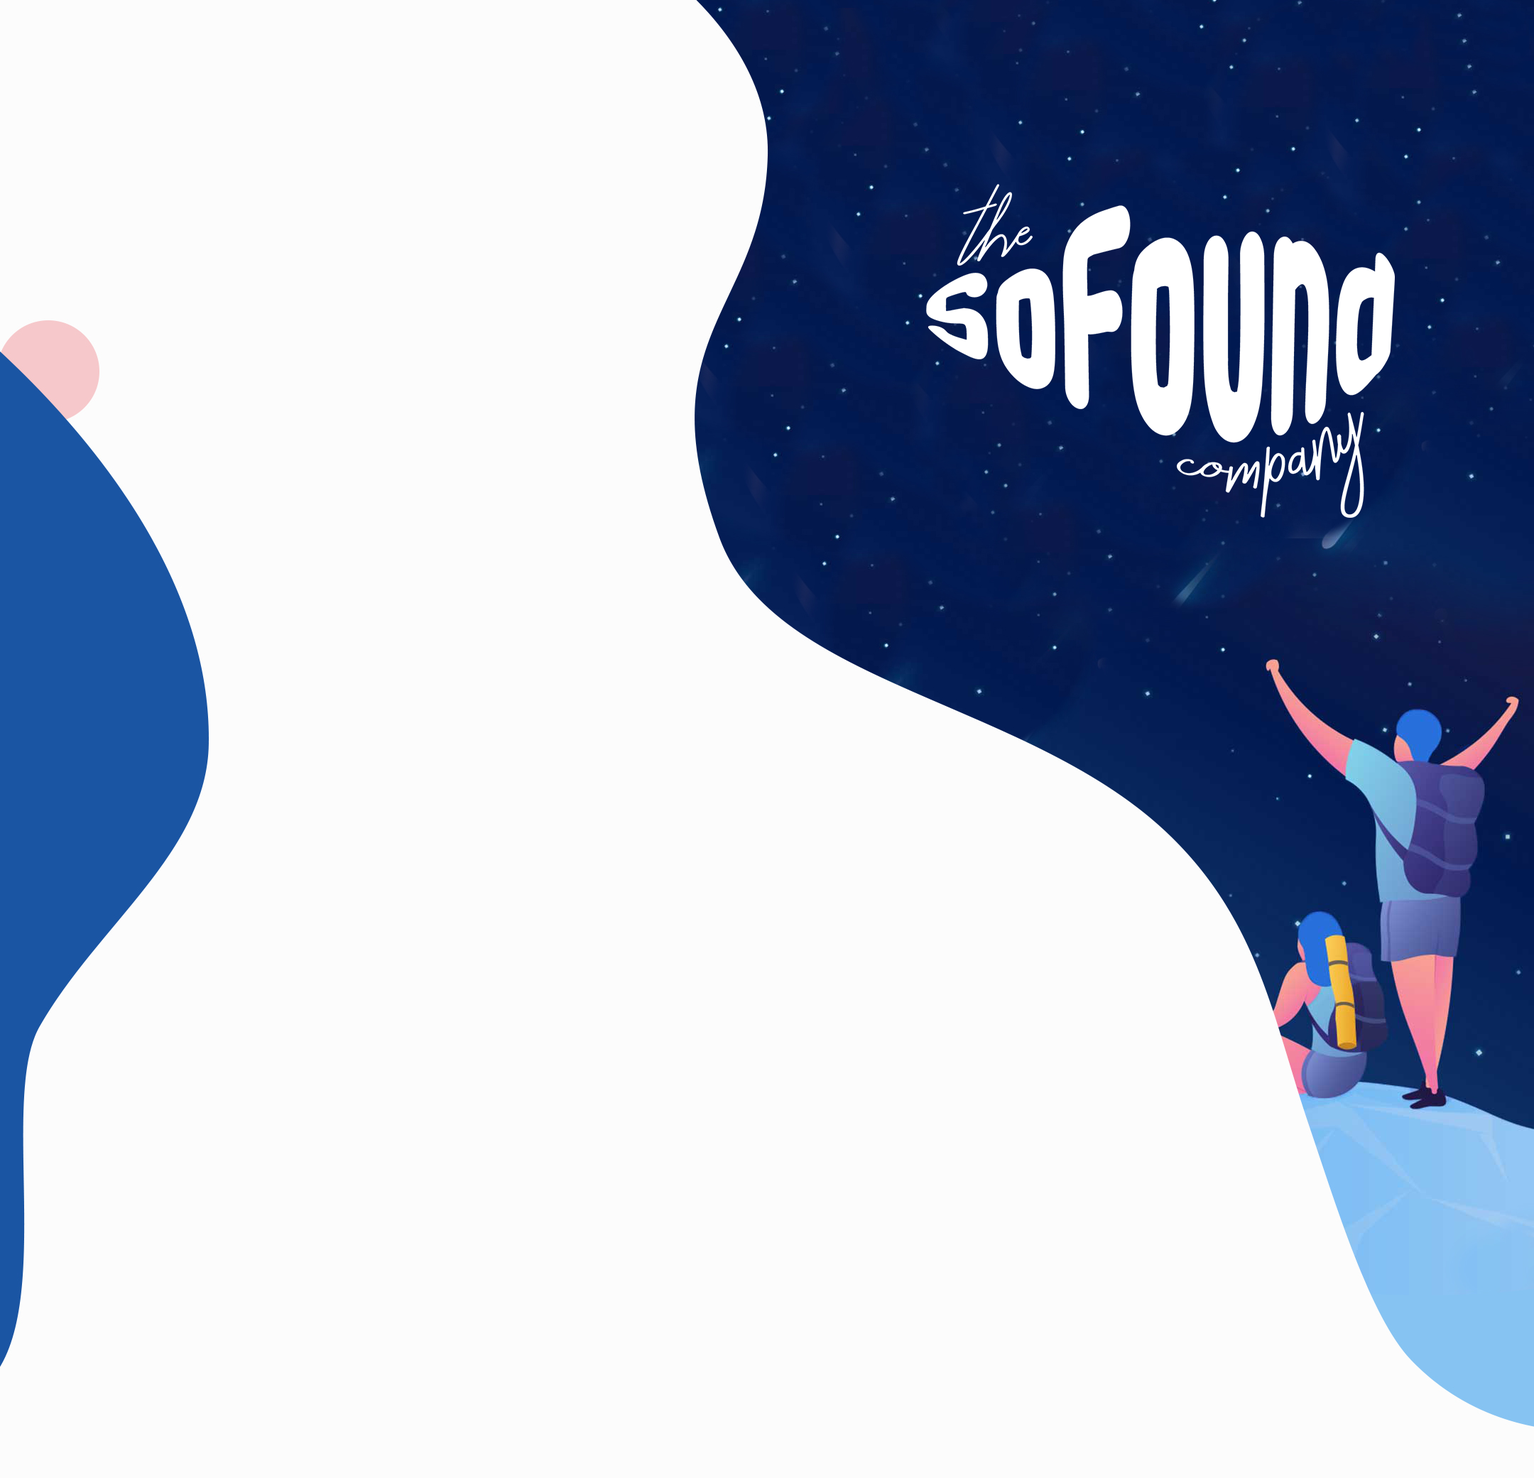
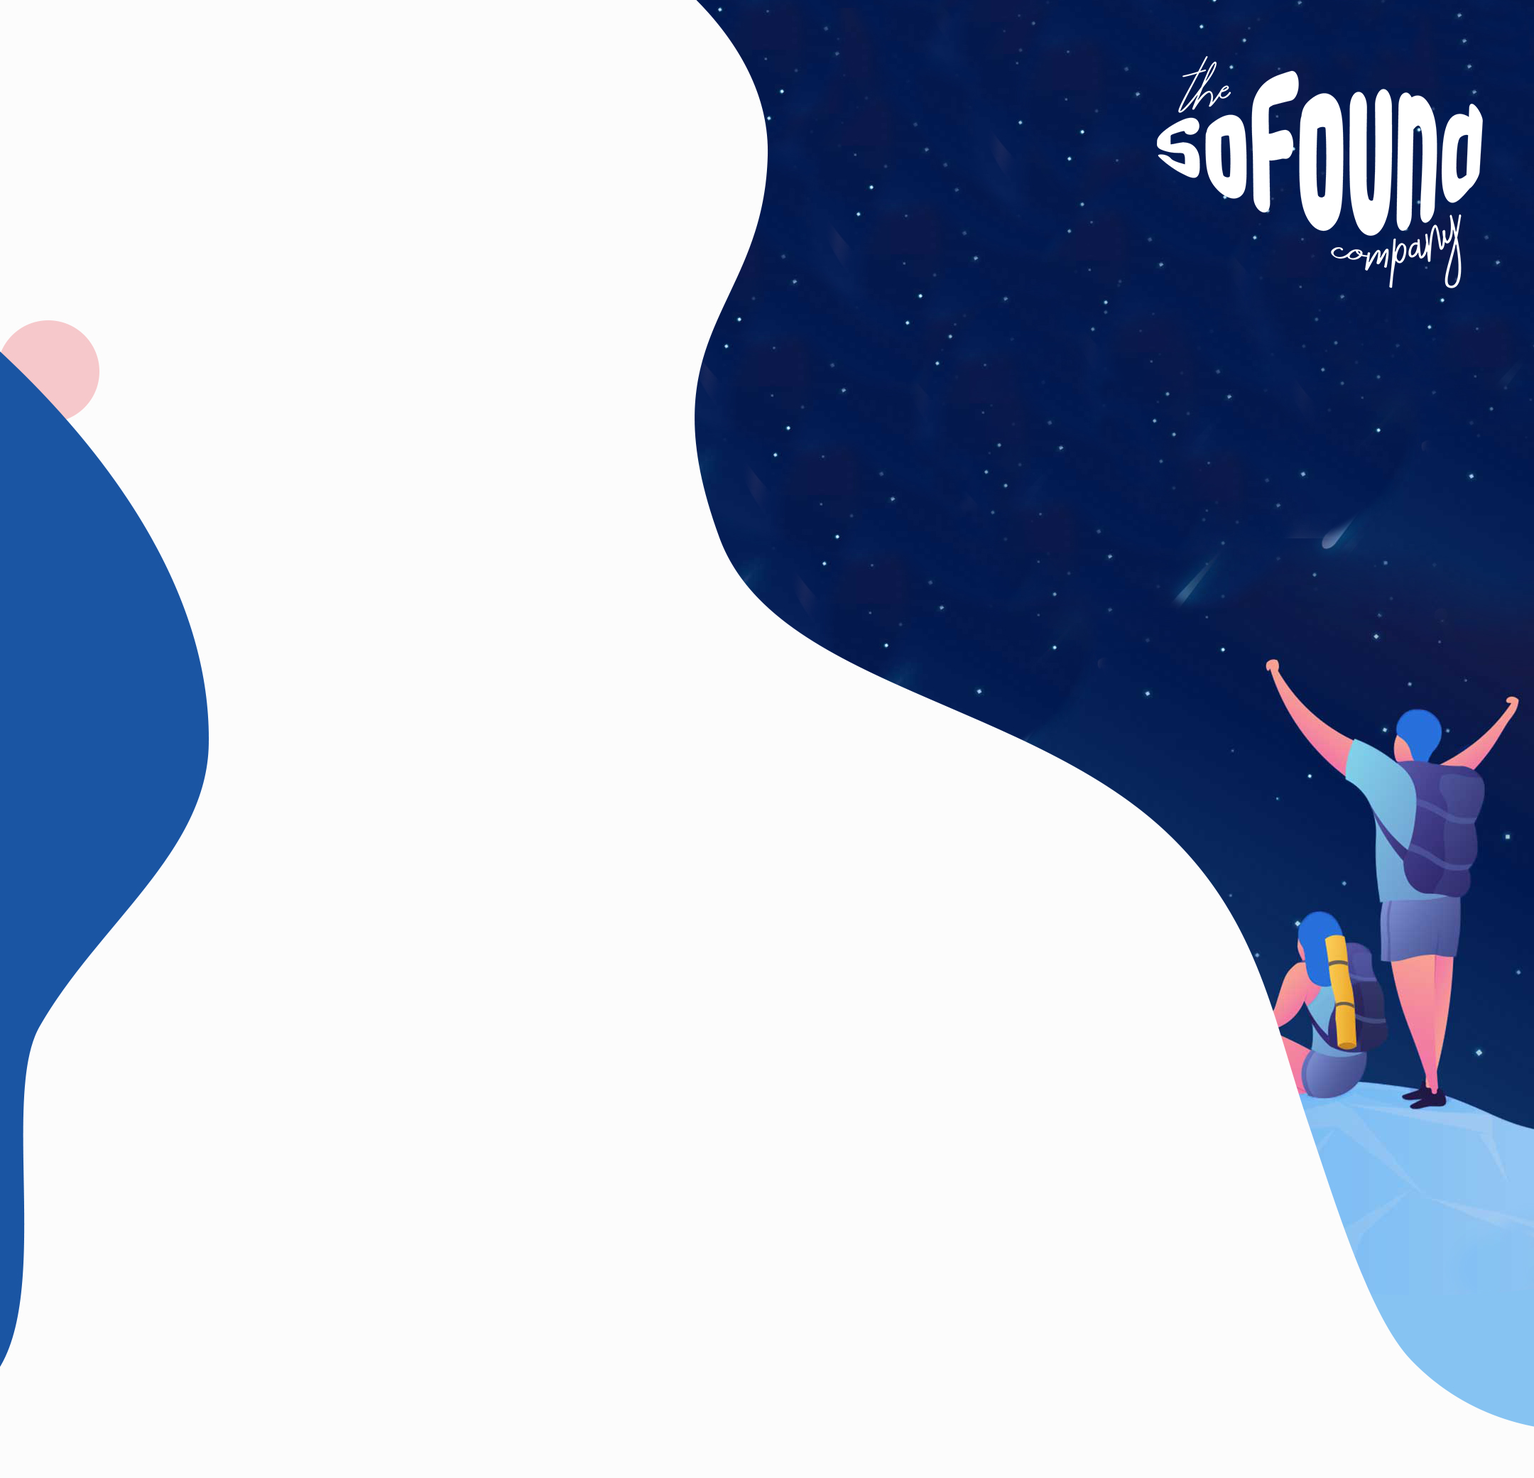
Finished home

Changed region(s): [[0.5894, 0.0312, 0.9926, 0.3436]]

diff --git a/index.html b/index.html
@@ -27,7 +27,7 @@
         <!-- Web -->
         <div class="row ">
           <div class="col-6 d-none d-sm-none d-md-block col-6 ">
-            <a href="index.html"><img src="assets/images/corner_web_logo.png" class="logo"  alt=""></a>
+            <a href="index.html"><img style="opacity:1;" src="assets/images/small_icon_3.png" class="logo"  alt=""></a>
 
           </div>
           <div  class="d-none d-sm-none d-md-block col-6">
@@ -171,7 +171,7 @@
             <p class="text-header-minor margin-top-header">To a new level</p>
           </div>
           <div class="row" >
-            <p class="text-header-paragraph margin-text-header-paragraph ">The SoFound Co is an experienced creative digital media company. We help grow the brand & business while you work on your craft. Contact us to learn how
+            <p class="text-header-paragraph margin-text-header-paragraph ">The SoFound Co is an experienced creative digital media company. We help grow the brand & business while you work on your craft. Contact us to learn how.
           </div>
           <div class="row">
             <a href="contact.html"> <button  class="style-button-blue" type="button" name="button">Contact Us</button></a>
@@ -181,9 +181,9 @@
     </header>
     <br>
    <!-- ............................................. (1) Our Services .............................................................................. -->
-    <div class="our-services-margin-top services-container-2" >
+    <div style="padding-bottom:4%; padding-top:4%;"class="our-services-margin-top services-container-2" >
     <section class="services-container" style="margin-top: %;">
-      <h1 style="color:white;"class="text-center text-title" >Our Services</h1>
+      <h1 style="opacity:0;"class="text-center text-title" ></h1>
       <div style="margin-top: -3%;" class="row text-center">
         <div class="services-margin-top col-lg-4 col-md-4 col-sm-6 col-xs-6 col-6">
           <a target="_blank" href="service-web.html"> <img class="image-services hvr-grow" style="padding:10px;" href="contact.html" src="assets/images/computer1.png" alt=""></a>
@@ -241,10 +241,10 @@
         <div class="col-lg-6 col-md-6  col-12">
           <div class="boxed row">
             <h2 class="text-title" >About Us</h2>
-            <p class="text-paragraph">The SoFound Co.  is a creative digital media company that specializes in improving brand & business practises through the implementation of art.  We have both launched and redesigned brands ranging in the clothing and car industries. We place a large emphasis in merging art and business, with growth in mind. Due to our wide array of skills and experience, we can help across many platforms, from web development, logo design, social media and print marketing, all while maintaining a congruent  brand strategy</p>
+            <p class="text-paragraph">The SoFound Company is a creative digital media company that specializes in improving brand & business practises through the implementation of art.  We have both launched and redesigned brands ranging in the clothing and car industries. We place a large emphasis in merging art and business, with growth in mind. Due to our wide array of skills and experience, we can help across many platforms, from web development, logo design, social media and print marketing, all while maintaining a congruent  brand strategy</p>
             <button  class="style-button-blue-aboutus" type="button" name="button">Learn More</button>
           </div>
-          <div  class="center row">
+          <div style="margin-top:5%; margin-left:25%;" class="center row">
             <div class="circle">
               <p style="margin:24%;" class="text-paragraph text-center">Business<br>Acumen</p>
             </div>
@@ -259,7 +259,7 @@
       </div>
 
     </section>
-    <!-- ............................................. (3) Recents .................................................................................... -->
+    <!-- ............................................. (3) portfolio .................................................................................... -->
     <section class="fadingin"style="margin-top:10%; margin-left: 7%; margin-bottom:9%;">
 
       <div class="row d-none d-sm-block">
@@ -268,17 +268,15 @@
             <h1 class="text-recent-project">Recent Projects</h1>
           </div>
           <div class="col-3 col-md-3">
-            <img class="image-recents"  src="assets/images/Screen Shot 2019-11-30 at 2.00.16 PM.png" alt="">
+            <img class="image-recents-1"  src="assets/images/picture_camaro.png" alt="">
           </div>
           <div class="col-3 col-md-3">
-            <img class="image-recents" src="assets/images/Screen Shot 2019-11-30 at 2.00.23 PM.png" alt="">
+            <img class="image-recents-1" src="assets/images/picture_fqp.png" alt="">
           </div>
           <div class="col-3 col-md-3">
-            <img  class="image-recents" src="assets/images/Screen Shot 2019-11-30 at 2.00.27 PM.png" alt="">
-            <p style="font-size:10px;   color: black; font-weight:400;" class="text-click-see-more text-right"><a target="_blank" href="service-marketing.html#linkto-portfoliomarketing">click here to see more</a></p>
-
+            <img  class="image-recents-1" src="assets/images/picture_posteranta.png" alt="">
+            <p style="font-size:10px; margin-right:-10%; margin-top:4px; color: black; font-weight:400;" class="text-click-see-more text-right"><a target="_blank" href="service-marketing.html#linkto-portfoliomarketing">click here to see more</a></p>
           </div>
-        </div>
         </div>
       </div>
       <div class="text-right container d-none d-sm-block">
@@ -286,31 +284,32 @@
       <div class="row d-block d-sm-none">
         <div class="row">
           <div class="col-2">
-            <h1 class="text-recent-project">Recent Projects</h1>
+            <h1 class="text-recent-project" style="font-size:8.5vw;">Recent Projects</h1>
           </div>
-          <div class="col-8">
+          <div class="col-10">
             <div  class="col-6">
-              <img class="image-recents"  src="assets/images/Screen Shot 2019-11-30 at 2.00.16 PM.png" alt="">
+              <img class="image-recents" src="assets/images/picture_camaro.png" alt="">
 
             </div>
             <div  class="col-6">
-              <img class="image-recents" src="assets/images/Screen Shot 2019-11-30 at 2.00.23 PM.png" alt="">
+              <img class="image-recents" style="margin-top:5px;"src="assets/images/picture_fqp.png" alt="">
             </div>
             <div class="col-6">
-              <img  class="image-recents" src="assets/images/Screen Shot 2019-11-30 at 2.00.27 PM.png" alt="">
+              <img  class="image-recents" style="margin-top:5px;" src="assets/images/picture_posteranta.png" alt="">
             </div>
           </div>
 
 
         </div>
         <div class="text-right">
-            <p style=""class="text-center text-see-more">click here to see more</p>
+            <p style="font-size:10px; margin-right:-25%; margin-top:4px; color: black; font-weight:400;" class="text-center text-see-more">click here to see more</p>
         </div>
       </div>
 
+
     </section>
     <!-- ............................................. (4) Why we can help you ........................................................................ -->
-    <section class="top-bottom-box whoweare" style="margin-top:%;">
+    <section class="top-bottom-box whoweare" style="padding-bottom:4%; padding-top:4%;">
       <div class="container">
         <div class="row">
           <div style="" class="whoeweare-margin col-lg-6 col-md-6 col-xs-6 col-12">
@@ -321,7 +320,7 @@
               <p style="color:white;" id="subtexting-top" class="text-p-phone-who text-paragraph whoweare-text-paragraph">	We are a team that takes great pride in our art and work. We provide timely content with an adaptable schedule.  With vast industry experience and a highly creative team, we treat each project with the care and attention it deserves.  To see more content, checkout our extensive portfolio bellow.  </p>
             </div>
             <div class="row">
-              <img class="whoeweare-image-margin image-whoweare"src="assets/images/photo-1516842611600-784c63504e2c.jpeg" alt="">
+              <img class="whoeweare-image-margin image-whoweare"src="assets/images/picture-sitting-on-computer.png" alt="">
             </div>
           </div>
           <div style="" class="whoeweare-margin whoweare-bottom col-lg-6 col-md-6 col-xs-6 col-12">
@@ -332,21 +331,21 @@
               <p style="color:white;" id="subtexting"class="text-p-phone-who text-paragraph whoweare-text-paragraph">	Branding is not just about getting your target market to select you over the competition. It's also about getting your prospects to see you as the sole provider of a solution to their problem or need.  This is enhanced with design layout, logo, typography, taglines and marketing among others. </p>
             </div>
             <div class="row">
-              <img class="whoeweare-image-margin image-whoweare"src="assets/images/whoeweare.png" alt="">
+              <img class="whoeweare-image-margin image-whoweare" src="assets/images/photo-1516842611600-784c63504e2c.jpeg" alt="">
             </div>
           </div>
           </div>
         </div>
       </div>
     </section>
-    <!-- ............................................. (5) Portfolio  .................................................................................... -->
+    <!-- ............................................. (5) Reviews  .................................................................................... -->
     <section class="fadingin review-section container-fluid text-center" style=" ">
 
       <div class="row">
         <div class="col-lg-6 col-md-6 col-xs-6 col-12">
           <div class="card " style="">
             <div class="card-body">
-              <h5 class="card-title">"Highly interactive"</h5>
+              <h5 class="card-title">"Highly comprehensive"</h5>
               <p class="text-paragraph">The team really helped us prepare a clear and defined strategy</p>
               <blockquote class="blockquote mb-0">
                 <footer class="blockquote-footer">Graphics for <cite title="Source Title">The Water Club</cite></footer>
@@ -359,8 +358,8 @@
           <div class="card" style="">
             <div class="card-body">
               <h5 class="card-title">"Informative"</h5>
-              <p class="text-paragraph">Without SoFound we don't think we'd be doing so well right now</p>
-              <blockquote class="blockquote mb-0">
+              <p class="text-paragraph">The company has really helped solidify our vision</p>
+              <blockquote style="font-size:15px;" class="blockquote mb-0">
                 <footer class="blockquote-footer">Branding for <cite title="Source Title">TheHouseofWrap</cite></footer>
                 <img src="assets/images/a-reveiws.png" class="image-reviews" alt="">
               </blockquote>
@@ -373,7 +372,7 @@
           <div class="card" style="">
             <div class="card-body">
               <h5 class="card-title">"Launching Pad"</h5>
-              <p class="text-paragraph">The team helped us go from a mom and pop shop to a legit business with a defined brand and an awesome website</p>
+              <p class="text-paragraph">The SoFound team helped us go from a mom and pop shop to a legit business with a defined brand and an awesome website</p>
               <blockquote class="blockquote mb-0">
                 <footer class="blockquote-footer">Web Dev. <cite title="Source Title">D&S Car Service</cite></footer>
                 <img src="assets/images/d&s-review.png" class="image-reviews" alt="">
@@ -457,16 +456,16 @@
         <!-- <p class="text-footer">Here you can use rows and columns to. </p> -->
           <ul class=" list-unstyled">
             <li style="margin-bottom: 8px;">
-              <a class="text-footer-list" href="www.googlemaps.com">90 Frontstreet North, M5P3A8, Toronto ON</a>
+              <a  class="text-footer-list" href="mailto:theteam@thesofoundcompany.com?subject = Inquiry">theteam@thesofoundcompany.com</a>
             </li>
             <li style="margin-bottom: 8px;">
-              <a  class="text-footer-list" href="mailto:Thesoufoundcompany@gmail.com?subject = Inquiry">Thesoufoundcompany@gmail.com</a>
+              <a class="text-footer-list" target="_blank" href="https://www.instagram.com/thesofound/">@TheSoFound</a>
             </li>
             <li style="margin-bottom: 8px;" >
               <a class="text-footer-list"  href="tel:289-769-1978">(289) 769-1978 </a>
             </li>
             <li>
-              <a class="text-footer-list" target="_blank" href="https://www.instagram.com/thesofound/">@TheSoFound</a>
+              <a class="text-footer-list" href="https://facebook.com/SoFoundMedia"></a>
             </li>
           </ul>
 
@@ -600,7 +599,7 @@
   <!-- Social buttons -->
 
   <!-- Copyright -->
-  <div class="text-footer-copyright footer-copyright text-center py-3 ">© 2019 Copyright theSoFound Company
+  <div class="text-footer-copyright footer-copyright text-center py-3 ">© 2019 Copyright the SoFound Company
   </div>
   <!-- Copyright -->
 

diff --git a/assets/css/style.css b/assets/css/style.css
@@ -293,8 +293,8 @@ html {
   margin-left:14%;
   font-weight: 300;
   padding-top: 10px;
-
 }
+
 
 .icon_image{
   text-align: right;
@@ -403,8 +403,8 @@ html {
   height: 100%;
   width: 100%;
   overflow: ;
-  padding-bottom: 15px;
-  padding-top: 55px;
+  padding-bottom:8%;
+  padding-top: 10%;
 }
 
 .whoweare{
@@ -853,11 +853,20 @@ ul {
 .image-whoweare{
   width: 100%;
   height: 100%;
+  border-radius: 5px;
+  margin-top: 15px;
 }
-.image-recents{
-  width: 100%;
-  height: 90%;
-  margin-right: 0px;
+.image-recents-1{
+  width: 110%;
+ height: auto;
+ padding: 2%;
+  margin: 0px;
+
+
+}
+
+.blockquote{
+  font-size: 15px;
 }
 
 .bg-img {
@@ -899,6 +908,8 @@ ul {
   width: 35%;
   height: auto;
   margin: 2.5% 0% 0 4%;
+  background-image: url("assets/images/small_icon_3.png");
+      background-repeat: no-repeat;
 }
 
 .img-other-services-size{
@@ -994,10 +1005,11 @@ ul {
 
 .text-form{
   color: white;
-  font-weight: 300;
+  font-weight: 500;
   font-size: 20px;
   margin-bottom: 20px;
   margin-top: 10px;
+  font-family: 'lato', sans-serif;
 }
 
 .nav-link:hover {
@@ -1197,8 +1209,9 @@ font-family: 'Lato', sans-serif;
 
 
   .image-recents{
-    max-width: 350px;
-      max-height: 350px;
+    width: 100%;
+   height: auto;
+   padding: .5%;
     margin-right: 0px;
   }
   .image-services{
@@ -1559,8 +1572,8 @@ font-family: 'Lato', sans-serif;
     padding: 10px;
   }
   .image-recents{
-    width: 170px;
-    height: 170px;
+    width: 150%;
+    height: auto;
     margin-right: 0px;
   }
 

diff --git a/aboutus.html b/aboutus.html
@@ -27,7 +27,7 @@
         <!-- Web -->
         <div class="row ">
           <div class="col-6 d-none d-sm-none d-md-block col-6 ">
-            <a href="index.html"><img src="assets/images/logo-website-6.jpg" class="logo"  alt=""></a>
+            <a href="index.html"><img style="opacity:1;" src="assets/images/small_icon_3.png" class="logo"  alt=""></a>
 
           </div>
           <div  class="d-none d-sm-none d-md-block col-6">
@@ -169,7 +169,7 @@
            <p id="dont-show-on-small" class="text-header-minor margin-top-header">the SoFound company.</p>
          </div>
          <div class="row" >
-           <p class="text-header-paragraph margin-text-header-paragraph ">The SoFound Co is an experienced creative digital media company. We help grow the brand & business while you work on your craft. Contact us to learn how
+           <p class="text-header-paragraph margin-text-header-paragraph ">The SoFound Company is an experienced creative digital tech & media company. We help grow the brand & business while you work on your craft. Contact us to learn how
          </div>
          <div class="row">
            <a href="contact.html"> <button  class="style-button-blue" type="button" name="button">Contact Us</button></a>

diff --git a/contact.html b/contact.html
@@ -28,8 +28,7 @@
         <!-- Web -->
         <div class="row ">
           <div class="col-6 d-none d-sm-none d-md-block col-6 ">
-            <a href="index.html"><img src="assets/images/logo-website-6.jpg" class="logo"  alt=""></a>
-
+            <a href="index.html"><img style="opacity:1;" src="assets/images/small_icon_3.png" class="logo"  alt=""></a>
           </div>
           <div  class="d-none d-sm-none d-md-block col-6">
             <div class="row  margin-top">

diff --git a/careers.html b/careers.html
@@ -29,7 +29,7 @@
         <!-- Web -->
         <div class="row ">
           <div class="col-6 d-none d-sm-none d-md-block col-6 ">
-            <a href="index.html"><img src="assets/images/logo-website-6.jpg" class="logo"  alt=""></a>
+            <a href="index.html"><img style="opacity:1;" src="assets/images/small_icon_3.png" class="logo"  alt=""></a>
 
           </div>
           <div  class="d-none d-sm-none d-md-block col-6">

diff --git a/service-branding.html b/service-branding.html
@@ -27,7 +27,7 @@
         <!-- Web -->
         <div class="row ">
           <div class="col-6 d-none d-sm-none d-md-block col-6 ">
-            <a href="index.html"><img src="assets/images/logo-website-6.jpg" class="logo"  alt=""></a>
+            <a href="index.html"><img style="opacity:1;" src="assets/images/small_icon_3.png" class="logo"  alt=""></a>
 
           </div>
           <div  class="d-none d-sm-none d-md-block col-6">

diff --git a/service-film.html b/service-film.html
@@ -27,7 +27,7 @@
         <!-- Web -->
         <div class="row ">
           <div class="col-6 d-none d-sm-none d-md-block col-6 ">
-            <a href="index.html"><img src="assets/images/logo-website-6.jpg" class="logo"  alt=""></a>
+            <a href="index.html"><img style="opacity:1;" src="assets/images/small_icon_3.png" class="logo"  alt=""></a>
 
           </div>
           <div  class="d-none d-sm-none d-md-block col-6">

diff --git a/service-graphics.html b/service-graphics.html
@@ -27,7 +27,7 @@
         <!-- Web -->
         <div class="row ">
           <div class="col-6 d-none d-sm-none d-md-block col-6 ">
-            <a href="index.html"><img src="assets/images/logo-website-6.jpg" class="logo"  alt=""></a>
+            <a href="index.html"><img style="opacity:1;" src="assets/images/small_icon_3.png" class="logo"  alt=""></a>
 
           </div>
           <div  class="d-none d-sm-none d-md-block col-6">

diff --git a/service-marketing.html b/service-marketing.html
@@ -27,7 +27,7 @@
         <!-- Web -->
         <div class="row ">
           <div class="col-6 d-none d-sm-none d-md-block col-6 ">
-            <a href="index.html"><img src="assets/images/logo-website-6.jpg" class="logo"  alt=""></a>
+            <a href="index.html"><img style="opacity:1;" src="assets/images/small_icon_3.png" class="logo"  alt=""></a>
 
           </div>
           <div  class="d-none d-sm-none d-md-block col-6">

diff --git a/service-socialmedia.html b/service-socialmedia.html
@@ -27,7 +27,7 @@
         <!-- Web -->
         <div class="row ">
           <div class="col-6 d-none d-sm-none d-md-block col-6 ">
-            <a href="index.html"><img src="assets/images/logo-website-6.jpg" class="logo"  alt=""></a>
+            <a href="index.html"><img style="opacity:1;" src="assets/images/small_icon_3.png" class="logo"  alt=""></a>
 
           </div>
           <div  class="d-none d-sm-none d-md-block col-6">

diff --git a/service-web.html b/service-web.html
@@ -32,7 +32,7 @@
         <!-- Web -->
         <div class="row ">
           <div class="col-6 d-none d-sm-none d-md-block col-6 ">
-            <a href="index.html"><img src="assets/images/logo-website-6.jpg" class="logo"  alt=""></a>
+            <a href="index.html"><img style="opacity:1;" src="assets/images/small_icon_3.png" class="logo"  alt=""></a>
 
           </div>
           <div  class="d-none d-sm-none d-md-block col-6">

diff --git a/service-business.html b/service-business.html
@@ -27,7 +27,7 @@
         <!-- Web -->
         <div class="row ">
           <div class="col-6 d-none d-sm-none d-md-block col-6 ">
-            <img src="assets/images/logo-website-6.jpg" class="logo"  alt="">
+            <a href="index.html"><img style="opacity:1;" src="assets/images/small_icon_3.png" class="logo"  alt=""></a>
 
           </div>
           <div  class="d-none d-sm-none d-md-block col-6">
